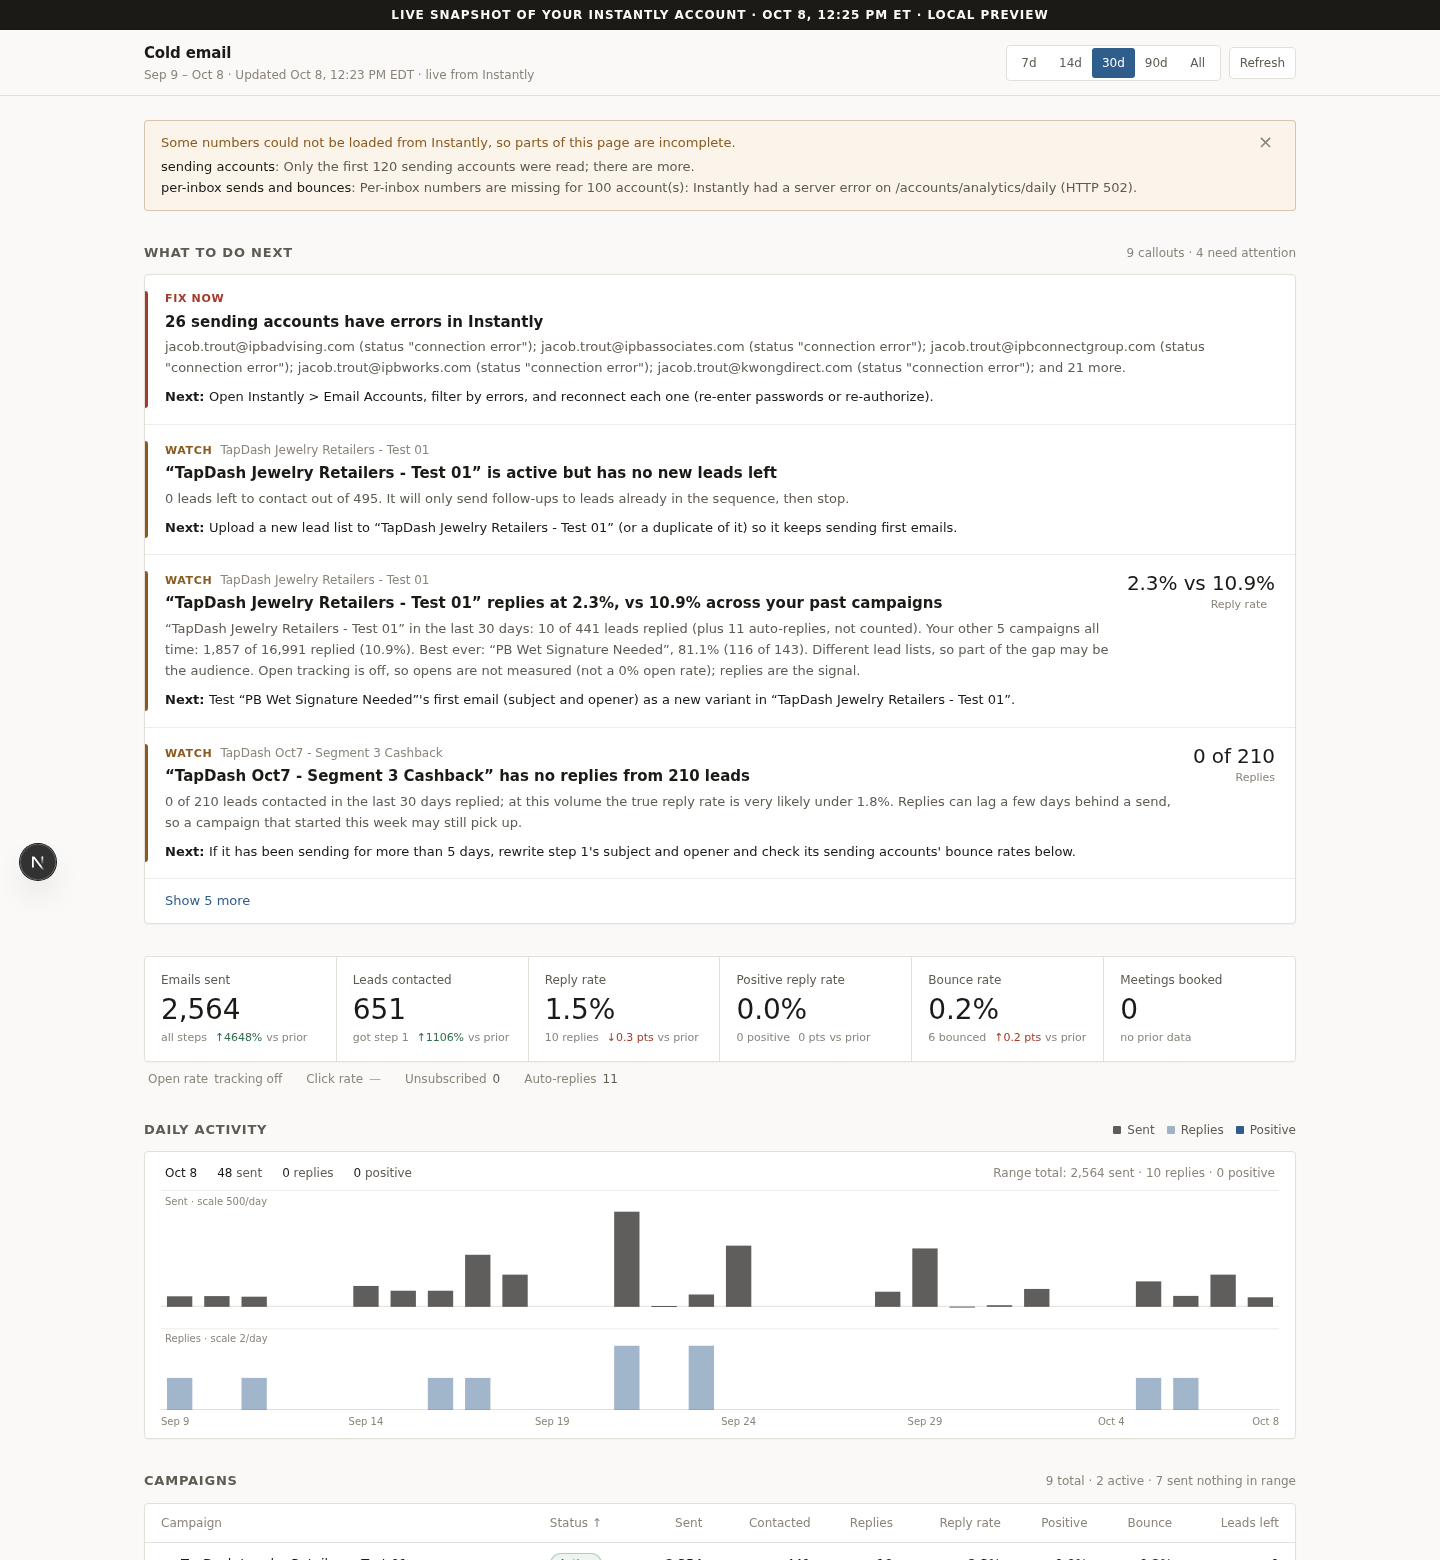
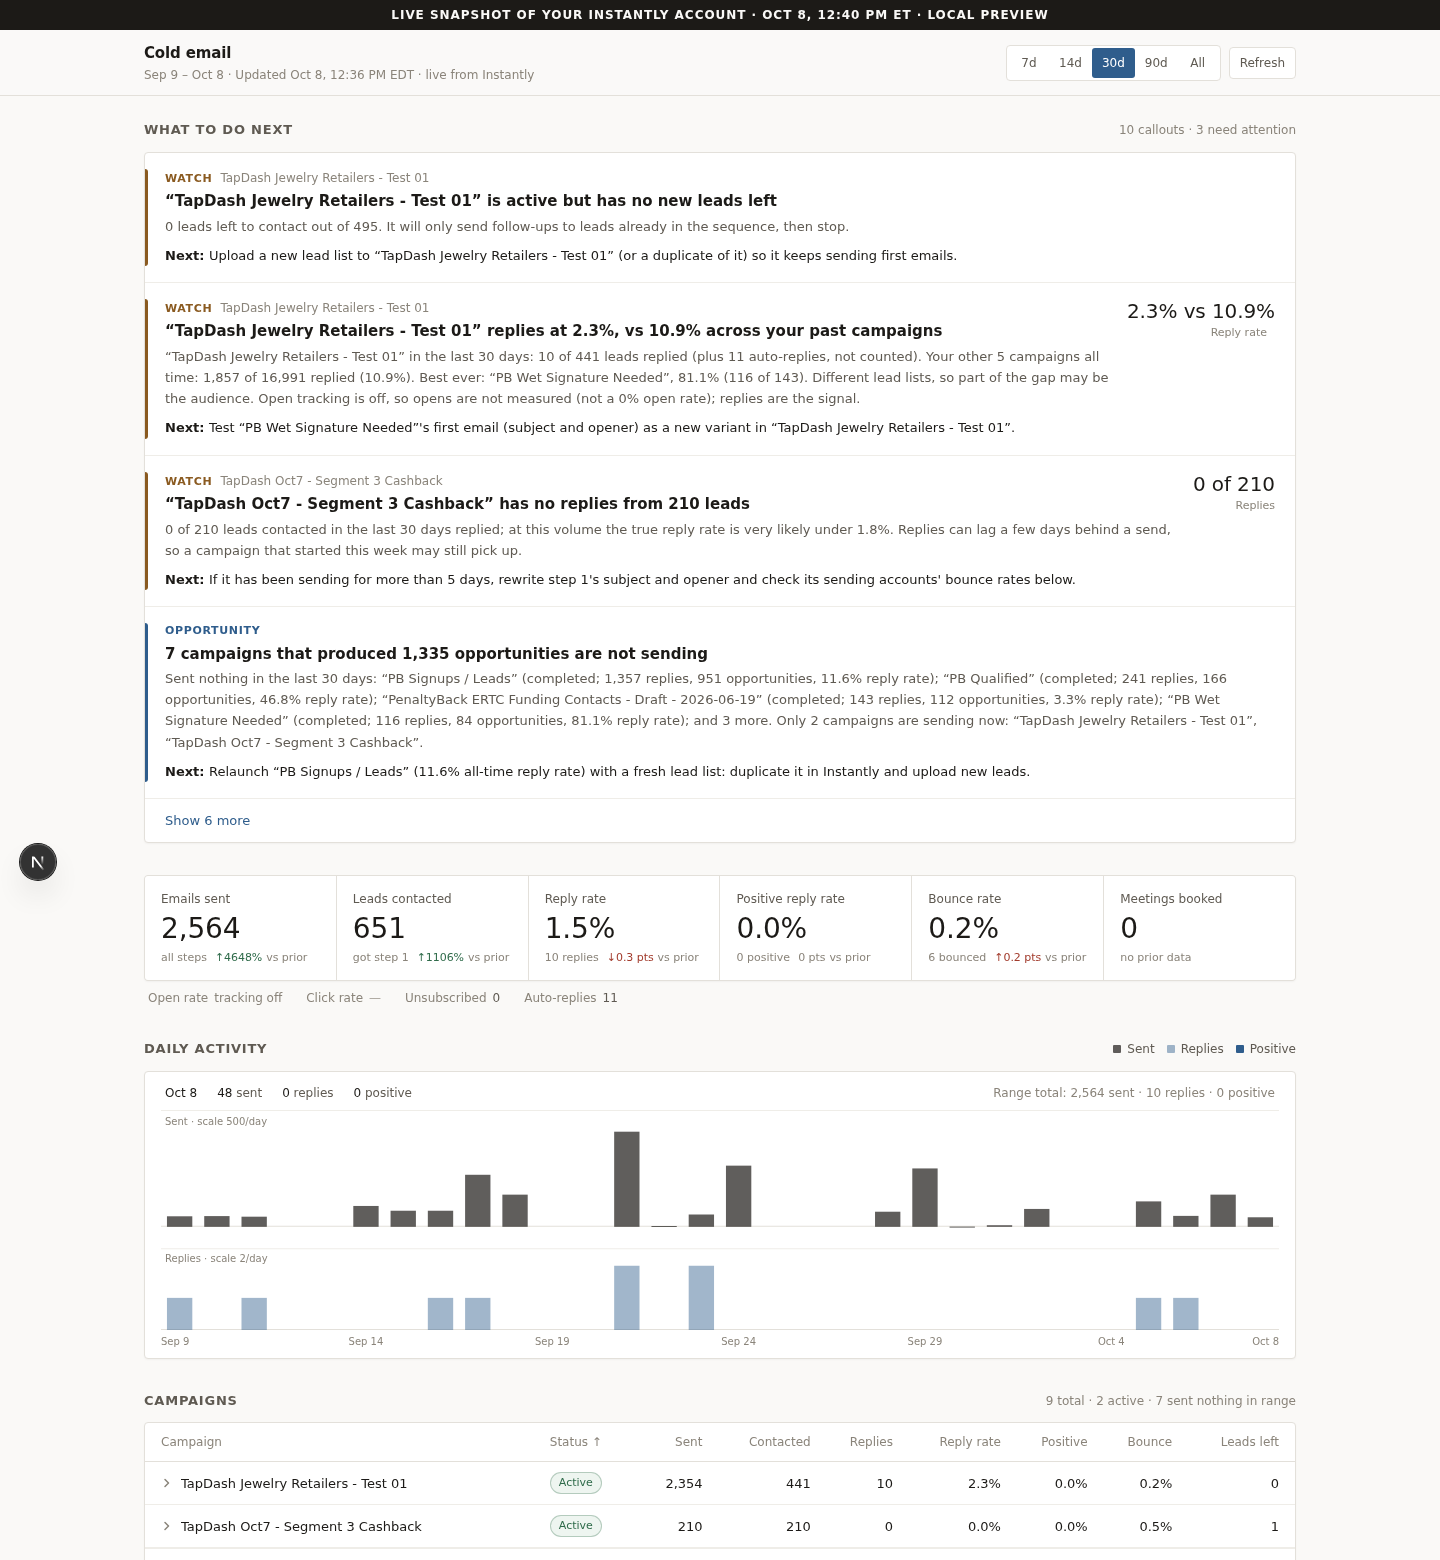
feat: focus on inboxes used by active campaigns
- SenderAccount gains campaigns / inActiveCampaign (from each campaign's email_list)
- errored inboxes no active campaign uses become one cleanup note instead of a critical alarm; they fold away in the accounts table
- warmed-up inboxes on no active campaign are called out as spare capacity
- phone layout fix for long reply snippets; refreshed live screenshots

diff --git a/components/dashboard/AccountsTable.tsx b/components/dashboard/AccountsTable.tsx
@@ -29,21 +29,17 @@ function StatusNote({ status }: { status: string }) {
   return <div className="mt-0.5 text-[12px] text-ink-muted">Instantly status: <span className="font-medium">{status}</span></div>
 }
 
-export function AccountsTable({ accounts }: { accounts: SenderAccount[] }) {
-  const rows = sortAccounts(accounts)
-  const flagged = accounts.filter((a) => a.health === 'at_risk' || a.health === 'watch').length
+/** The campaigns an inbox sends for, in one quiet line. */
+function CampaignNote({ a }: { a: SenderAccount }) {
+  if (!a.campaigns) return null
+  if (a.campaigns.length === 0) return <div className="mt-0.5 text-[12px] text-ink-faint">On no campaign</div>
+  const names = a.campaigns.map((c) => (c.status === 'active' ? c.name : `${c.name} (${c.status})`))
+  return <div className="mt-0.5 truncate text-[12px] text-ink-faint" title={names.join(', ')}>On: {names.join(', ')}</div>
+}
+
+function AccountList({ rows }: { rows: SenderAccount[] }) {
   return (
-    <section aria-labelledby="accounts-heading">
-      <SectionHeader
-        id="accounts-heading"
-        title="Sending accounts"
-        meta={accounts.length ? `${accounts.length} inbox${accounts.length === 1 ? '' : 'es'}${flagged ? ` · ${flagged} flagged` : ' · all clear'}` : undefined}
-      />
-      <Card>
-        {rows.length === 0 ? (
-          <EmptyNote>No sending accounts reported.</EmptyNote>
-        ) : (
-          <>
+    <>
             <div className="hidden overflow-x-auto md:block">
               <table className="w-full text-[13px]" data-testid="accounts-table">
                 <thead>
@@ -63,6 +59,7 @@ export function AccountsTable({ accounts }: { accounts: SenderAccount[] }) {
                         <div className="truncate font-medium text-ink" title={a.email}>{a.email}</div>
                         <div className="mt-0.5 text-[12px] leading-snug text-ink-faint">{a.healthReason}</div>
                         <StatusNote status={a.status} />
+                        <CampaignNote a={a} />
                       </td>
                       <td className="px-2 py-2.5"><Health a={a} /></td>
                       <td className="px-2 py-2.5 text-right font-numeric"><Val value={a.warmupScore}>{formatCount(a.warmupScore)}</Val></td>
@@ -82,6 +79,7 @@ export function AccountsTable({ accounts }: { accounts: SenderAccount[] }) {
                       <div className="break-all text-[13px] font-medium text-ink">{a.email}</div>
                       <div className="mt-0.5 text-[12px] leading-snug text-ink-faint">{a.healthReason}</div>
                       <StatusNote status={a.status} />
+                        <CampaignNote a={a} />
                     </div>
                     <Health a={a} />
                   </div>
@@ -94,6 +92,37 @@ export function AccountsTable({ accounts }: { accounts: SenderAccount[] }) {
                 </li>
               ))}
             </ul>
+    </>
+  )
+}
+
+export function AccountsTable({ accounts }: { accounts: SenderAccount[] }) {
+  // Inboxes on an active campaign (or unknown) first; inboxes no active campaign uses fold away.
+  const current = sortAccounts(accounts.filter((a) => a.inActiveCampaign !== false))
+  const unused = sortAccounts(accounts.filter((a) => a.inActiveCampaign === false))
+  const unusedErrors = unused.filter((a) => a.health === 'at_risk').length
+  const flagged = current.filter((a) => a.health === 'at_risk' || a.health === 'watch').length
+  const meta = accounts.length
+    ? `${current.length} on active campaigns${flagged ? ` · ${flagged} flagged` : ' · all clear'}${unused.length ? ` · ${unused.length} unused` : ''}`
+    : undefined
+  return (
+    <section className="min-w-0" aria-labelledby="accounts-heading">
+      <SectionHeader id="accounts-heading" title="Sending accounts" meta={meta} />
+      <Card>
+        {accounts.length === 0 ? (
+          <EmptyNote>No sending accounts reported.</EmptyNote>
+        ) : (
+          <>
+            {current.length ? <AccountList rows={current} /> : <EmptyNote>No inbox is attached to an active campaign.</EmptyNote>}
+            {unused.length ? (
+              <details className="border-t border-line" data-testid="unused-accounts">
+                <summary className="cursor-pointer px-4 py-3 text-[13px] font-medium text-ink-muted hover:text-ink">
+                  Show {unused.length} inbox{unused.length === 1 ? '' : 'es'} not on any active campaign
+                  {unusedErrors ? ` (${unusedErrors} with errors)` : ''}
+                </summary>
+                <AccountList rows={unused} />
+              </details>
+            ) : null}
           </>
         )}
       </Card>

diff --git a/tests/insights/accounts-in-use.test.tsx b/tests/insights/accounts-in-use.test.tsx
@@ -1,0 +1,82 @@
+import { describe, expect, it } from 'vitest'
+import { render, screen } from '@testing-library/react'
+import { deliverabilityInsights } from '@/lib/insights/accounts'
+import { AccountsTable } from '@/components/dashboard/AccountsTable'
+import type { SenderAccount } from '@/lib/dashboard/types'
+import { account, input } from '../fixtures/insights/builders'
+
+const ACTIVE = [{ id: 'c1', name: 'Jewelers', status: 'active' as const }]
+const OLD = [{ id: 'c9', name: 'Old campaign', status: 'completed' as const }]
+const on = (a: SenderAccount, campaigns: SenderAccount['campaigns']): SenderAccount => ({
+  ...a,
+  campaigns,
+  inActiveCampaign: campaigns == null ? null : campaigns.some((c) => c.status === 'active'),
+})
+
+describe('errored inboxes vs active campaigns', () => {
+  it('errors on inboxes no active campaign uses become one cleanup card, not critical', () => {
+    const r = deliverabilityInsights(input({
+      accounts: [
+        on(account('live@x.com', { sent: 200, bounced: 0, warmupScore: 100 }), ACTIVE),
+        on(account('old1@y.com', { status: 'connection error', sent: 0 }), OLD),
+        on(account('old2@y.com', { status: 'connection error', sent: 0 }), []),
+      ],
+    }))
+    expect(r.find((i) => i.id.startsWith('account-error:') || i.id === 'account-error')).toBeUndefined()
+    const c = r.find((i) => i.id === 'account-error-unused')!
+    expect(c.severity).toBe('opportunity')
+    expect(c.title).toBe('2 inboxes have errors, but no active campaign uses them')
+    expect(c.detail).toContain('only on Old campaign (completed)')
+    expect(c.detail).toContain('on no campaign')
+  })
+
+  it('an errored inbox on an active campaign stays critical', () => {
+    const r = deliverabilityInsights(input({
+      accounts: [on(account('live@x.com', { status: 'connection error' }), ACTIVE)],
+    }))
+    expect(r.find((i) => i.id === 'account-error:live@x.com')!.severity).toBe('critical')
+  })
+
+  it('unknown campaign membership (null) keeps the old critical behaviour', () => {
+    const r = deliverabilityInsights(input({ accounts: [on(account('a@x.com', { status: 'connection error' }), null)] }))
+    expect(r.find((i) => i.id === 'account-error:a@x.com')!.severity).toBe('critical')
+  })
+
+  it('warmed inboxes on no active campaign are called out as spare capacity', () => {
+    const r = deliverabilityInsights(input({
+      accounts: [
+        on(account('live@x.com', { sent: 200, bounced: 0, warmupScore: 100 }), ACTIVE),
+        on(account('ai1@z.com', { sent: 0, warmupScore: 100 }), []),
+        on(account('ai2@z.com', { sent: 0, warmupScore: 100 }), []),
+      ],
+    }))
+    const c = r.find((i) => i.id === 'accounts-spare')!
+    expect(c.title).toBe('2 warmed-up inboxes are not on any active campaign')
+    expect(r.find((i) => i.id === 'accounts-idle')).toBeUndefined()
+  })
+})
+
+describe('AccountsTable folds unused inboxes', () => {
+  it('shows active-campaign inboxes and hides the rest behind a disclosure', () => {
+    const accts: SenderAccount[] = [
+      { ...on(account('live@x.com', { sent: 200 }), ACTIVE), health: 'healthy', healthReason: 'ok' },
+      { ...on(account('old@y.com', { status: 'connection error' }), OLD), health: 'at_risk', healthReason: 'error' },
+    ]
+    render(<AccountsTable accounts={accts} />)
+    expect(screen.getByText(/1 on active campaigns/)).toBeTruthy()
+    const d = screen.getByTestId('unused-accounts')
+    expect(d.textContent).toContain('Show 1 inbox not on any active campaign (1 with errors)')
+  })
+})
+
+describe('warmup findings on unused inboxes', () => {
+  it('are not raised as cards', () => {
+    const r = deliverabilityInsights(input({
+      accounts: [
+        on(account('live@x.com', { sent: 200, bounced: 0, warmupScore: 100 }), ACTIVE),
+        on(account('old@y.com', { sent: 0, warmupScore: 10 }), OLD),
+      ],
+    }))
+    expect(r.find((i) => i.id.startsWith('warmup-'))).toBeUndefined()
+  })
+})

diff --git a/lib/insights/accounts.ts b/lib/insights/accounts.ts
@@ -164,10 +164,31 @@ export function deliverabilityInsights(d: InsightInput): RankedInsight[] {
 
   const group = (code: FindingCode, level: 'watch' | 'at_risk') =>
     assessed
+      // Warmup / bounce / paused findings only matter for inboxes an active campaign uses (or unknown).
+      .filter(({ a }) => code === 'status_error' || a.inActiveCampaign !== false)
       .map(({ a, f }) => ({ a, hit: f.find((x) => x.code === code && x.level === level) }))
       .filter((x): x is { a: AccountInput & SenderAccount; hit: AccountFinding } => x.hit != null)
 
-  const errors = group('status_error', 'at_risk')
+  const allErrors = group('status_error', 'at_risk')
+  // Errored inboxes that no active campaign uses (old campaigns) are cleanup, not an emergency.
+  const unusedErrors = allErrors.filter(({ a }) => a.inActiveCampaign === false)
+  const errors = allErrors.filter(({ a }) => a.inActiveCampaign !== false)
+  if (unusedErrors.length) {
+    const one = unusedErrors.length === 1
+    out.push({
+      id: 'account-error-unused',
+      severity: 'opportunity',
+      title: one
+        ? `${unusedErrors[0].a.email} has an error, but no active campaign uses it`
+        : `${unusedErrors.length} inboxes have errors, but no active campaign uses them`,
+      detail:
+        listAccounts(unusedErrors.map(({ a }) => ({ email: a.email, why: `status "${a.status}"${a.campaigns && a.campaigns.length ? `, only on ${a.campaigns.map((c) => `${c.name} (${c.status})`).join(', ')}` : ', on no campaign'}` }))) +
+        '. Nothing you are sending right now depends on them.',
+      action: `Decide which to keep: reconnect the ones you will reuse in Instantly > Email Accounts and delete the rest so they stop cluttering health checks.`,
+      metric: { label: 'Unused inboxes in error', value: num(unusedErrors.length) },
+      impact: RULE_IMPACT.accountPaused + mag(unusedErrors.length),
+    })
+  }
   if (errors.length) {
     const one = errors.length === 1
     out.push({
@@ -280,7 +301,24 @@ export function deliverabilityInsights(d: InsightInput): RankedInsight[] {
   // 4. Active accounts that sent nothing while others did.
   if (sending.length > 0) {
     const idle = assessed.filter(({ a }) => a.sent === 0 && statusKind(a.status) === 'active')
-    if (idle.length) {
+    // Warmed-up inboxes attached to no active campaign: spare capacity, said separately.
+    const spare = idle.filter(({ a }) => a.inActiveCampaign === false && a.warmupScore != null && a.warmupScore >= WARMUP_WATCH)
+    if (spare.length) {
+      out.push({
+        id: 'accounts-spare',
+        severity: 'opportunity',
+        title: `${spare.length} warmed-up inbox${spare.length === 1 ? ' is' : 'es are'} not on any active campaign`,
+        detail: listAccounts(spare.map(({ a }) => ({ email: a.email, why: `warmup ${num(a.warmupScore ?? 0)}, 0 sent` }))) +
+          `. They are healthy and warmed, but nothing is sending from them.`,
+        action: 'Attach them to a live campaign that matches their domain (or launch one) to add sending capacity.',
+        metric: { label: 'Idle warmed inboxes', value: num(spare.length) },
+        impact: RULE_IMPACT.idleAccounts + 10 + mag(spare.length),
+      })
+    }
+    const spareSet = new Set(spare.map(({ a }) => a.email))
+    const idleRest = idle.filter(({ a }) => !spareSet.has(a.email))
+    if (idleRest.length) {
+      const idle = idleRest
       out.push({
         id: 'accounts-idle',
         severity: 'opportunity',

diff --git a/lib/dashboard/load.ts b/lib/dashboard/load.ts
@@ -9,7 +9,7 @@
  */
 import 'server-only'
 import type {
-  CampaignRow, Counts, DashboardData, DateRange, RangeKey, SenderAccount, SourceError,
+  CampaignRow, CampaignStatus, Counts, DashboardData, DateRange, RangeKey, SenderAccount, SourceError,
 } from '@/lib/dashboard/types'
 import { computeInsights, classifyAccountHealth } from '@/lib/insights'
 import { InstantlyClient, InstantlyError, clientFromEnv } from '@/lib/instantly/client'
@@ -279,12 +279,25 @@ export async function getDashboardData(rangeKey: RangeKey = '30d', opts: LoadOpt
     errors.push({ source: 'accounts/analytics/daily', message: `Per-inbox numbers are missing for ${failedEmails.size} account(s): ${message(firstErr?.reason)}` })
   }
   const perAccount = sumAccountDaily(accountRows)
+  // Which campaigns each inbox sends for (campaign email_list), so old, unused inboxes can be told apart.
+  const campaignsByInbox = new Map<string, { id: string; name: string; status: CampaignStatus }[]>()
+  // Only trust membership when the campaign list loaded and actually carries sender lists.
+  const membershipKnown = Boolean(campaignsPage) && listed.some((c) => Array.isArray(c.email_list))
+  for (const c of listed) {
+    for (const e of c.email_list ?? []) {
+      const key = String(e).toLowerCase()
+      const arr = campaignsByInbox.get(key) ?? []
+      arr.push({ id: c.id, name: c.name ?? c.id, status: campaignStatus(c.status) })
+      campaignsByInbox.set(key, arr)
+    }
+  }
   const senderAccounts: SenderAccount[] = accounts.map((a) => {
     const k = a.email.toLowerCase()
     const known = !failedEmails.has(k)
     const tot = perAccount.get(k) ?? { sent: 0, bounced: 0, replied: 0 }
     const sent = known ? tot.sent : null
     const bounced = known ? tot.bounced : null
+    const onCampaigns = membershipKnown ? (campaignsByInbox.get(k) ?? []) : null
     const base = {
       email: a.email,
       status: accountStatusWord(a.status),
@@ -294,10 +307,13 @@ export async function getDashboardData(rangeKey: RangeKey = '30d', opts: LoadOpt
       bounced,
       replied: known ? tot.replied : null,
       bounceRate: ratio(bounced, sent),
+      campaigns: onCampaigns,
+      inActiveCampaign: onCampaigns ? onCampaigns.some((c) => c.status === 'active') : null,
     }
     return { ...base, ...classifyAccountHealth(base) }
   })
-  senderAccounts.sort((x, y) => (y.sent ?? -1) - (x.sent ?? -1) || x.email.localeCompare(y.email))
+  // Inboxes on active campaigns first, then by volume.
+  senderAccounts.sort((x, y) => Number(y.inActiveCampaign === true) - Number(x.inActiveCampaign === true) || (y.sent ?? -1) - (x.sent ?? -1) || x.email.localeCompare(y.email))
 
   // Replied leads
   const leads = value(leadsR)

diff --git a/components/dashboard/RepliesList.tsx b/components/dashboard/RepliesList.tsx
@@ -40,7 +40,7 @@ function LeadItem({ l }: { l: RepliedLead }) {
   const w = waitingLabel(l.daysWaiting)
   const who = l.name || l.email
   return (
-    <li className="px-4 py-3 sm:px-5">
+    <li className="min-w-0 px-4 py-3 sm:px-5">
       <div className="flex flex-wrap items-baseline justify-between gap-x-3 gap-y-1">
         <div className="min-w-0">
           <span className="text-[14px] font-medium text-ink">{who}</span>
@@ -59,7 +59,7 @@ function LeadItem({ l }: { l: RepliedLead }) {
         {l.campaignName ? <span>{l.campaignName}</span> : null}
       </div>
       {l.lastReplySnippet ? (
-        <p className="mt-1.5 line-clamp-2 border-l-2 border-line pl-2.5 text-[13px] leading-relaxed text-ink-muted">{l.lastReplySnippet}</p>
+        <p className="mt-1.5 line-clamp-2 [overflow-wrap:anywhere] border-l-2 border-line pl-2.5 text-[13px] leading-relaxed text-ink-muted">{l.lastReplySnippet}</p>
       ) : null}
     </li>
   )
@@ -69,7 +69,7 @@ export function RepliesList({ leads }: { leads: RepliedLead[] }) {
   const waiting = sortWaiting(leads.filter((l) => l.awaitingOurReply))
   const others = [...leads.filter((l) => !l.awaitingOurReply)].sort((a, b) => (b.lastReplyAt ?? '').localeCompare(a.lastReplyAt ?? ''))
   return (
-    <section aria-labelledby="replies-heading">
+    <section className="min-w-0" aria-labelledby="replies-heading">
       <SectionHeader
         id="replies-heading"
         title="Replies waiting on you"

diff --git a/lib/dashboard/types.ts b/lib/dashboard/types.ts
@@ -94,6 +94,10 @@ export interface SenderAccount {
   bounceRate: number | null
   health: AccountHealth
   healthReason: string       // plain words, e.g. "4.1% bounce over 30d (limit 2%)"
+  /** Campaigns this inbox is a sender on (campaign email_list). undefined/null = campaign list unavailable. */
+  campaigns?: { id: string; name: string; status: CampaignStatus }[] | null
+  /** true = sender on at least one active campaign; false = on none; null = unknown. */
+  inActiveCampaign?: boolean | null
 }
 
 export interface RepliedLead {

diff --git a/lib/instantly/types.ts b/lib/instantly/types.ts
@@ -14,6 +14,8 @@ export interface ApiCampaign {
   open_tracking?: boolean | null
   link_tracking?: boolean | null
   timestamp_created?: string
+  /** Sending inboxes assigned to the campaign. */
+  email_list?: string[]
   sequences?: Array<{
     steps?: Array<{
       type?: string
